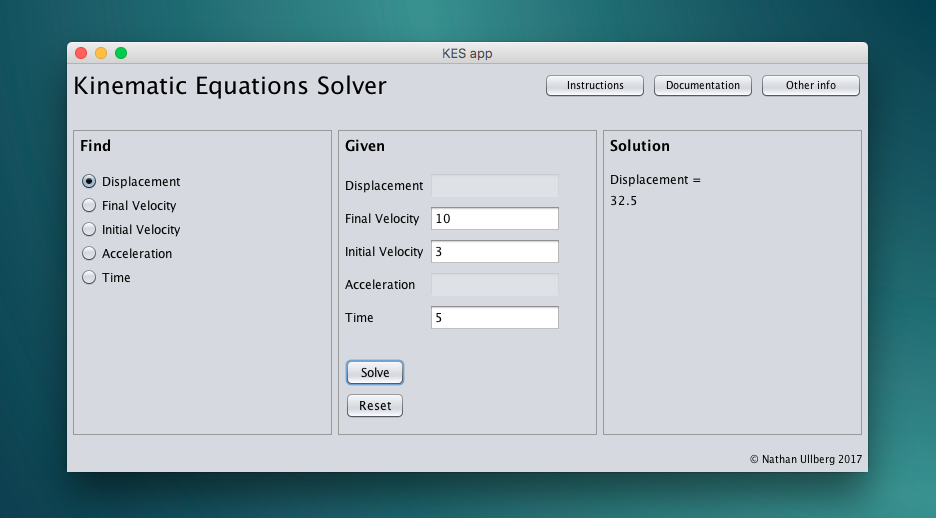
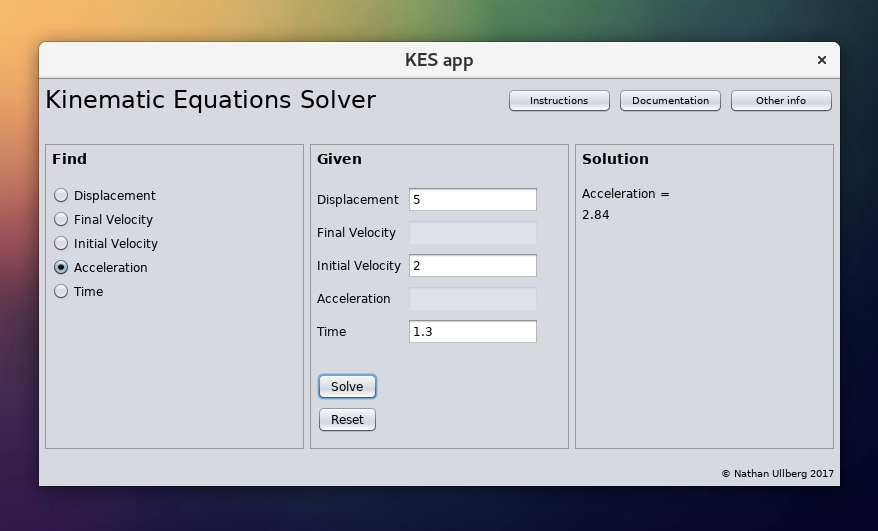
Adding content and changing image

diff --git a/README.md b/README.md
@@ -1,5 +1,14 @@
 # Kinematic Equations Solver (KES)
 
+Any beginner's course in physics will involve solving of the kinematic equations as derived from <a href="https://en.wikipedia.org/wiki/Classical_mechanics">classical mechanics</a>. Basically these equations can be used to figure out quantities like distance traveled or final velocity, based on other initial parameters, and assuming constant acceleration. Such quantities, under such conditions, are useful not only to a beginner but also to almost anyone. So instead of redoing the algebra over and over again every time you have a system you need to solve, this app allows you to just input the parameters and get the output. I used the <a href="https://en.wikipedia.org/wiki/NetBeans">NetBeans IDE</a> with its <a href="https://en.wikipedia.org/wiki/Graphical_user_interface_builder">UI builder</a> and the <a href="https://en.wikipedia.org/wiki/Java">Java</a> programming language.
+
+Below I show an image with an example of using the app:
+
+<img src="https://github.com/nullberg/kinematic-equations-solver/blob/master/images/KES_example.png" alt="KES_example.png" width="800px"/>
+
+One exquisite feature of the app is that it dynamically monitors the inputs in the "Given" section so that not more than a maximum of three input values are allowed. This prevents a contradiction from occuring.
+
+<!--
 This project concerns a Java GUI for solving kinematics problems. To run the app, download KES.jar in the dist folder and open it. The documentation PDF file is also in this folder. The NetBeans folder contains a ZIP file which can be imported with the NetBeans IDE to further work on the project. Finally src contains the *java files, however the best way to build on the project is through the ZIP file.
 
 ## Example usage
@@ -7,8 +16,7 @@ This project concerns a Java GUI for solving kinematics problems. To run the app
 Below is an image of the app, with some example inputs and output. Note that in the "Given" section, 2 textfields are disabled. The first is of course the parameter which was selected for "Find", which is Displacement. The other textfield was disabled as soon as 3 values for parameters had been specified. It is a contradiction to have more than 3 "Given" values.
 
 <img src="https://github.com/nullberg/kinematic-equations-solver/blob/master/images/KES_example.png" alt="KES_example.png" width="800px"/>
-
-
+-->
 <!--
 ![KES_example.png](https://github.com/nullberg/kinematic-equations-solver/blob/master/images/KES_example.png "KES_example.png")
 -->
